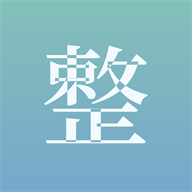
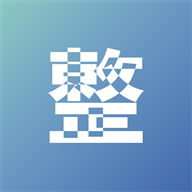
３１

diff --git a/summary.html b/summary.html
@@ -8,10 +8,10 @@
   <meta name="apple-mobile-web-app-title" content="整">
   <meta name="apple-mobile-web-app-status-bar-style" content="default">
   <title>Mindful Life Log - 年総決算</title>
-  <link rel="manifest" href="manifest.webmanifest?v=20260320-2">
-  <link rel="apple-touch-icon" href="icons/apple-touch-icon.png?v=20260320-2">
-  <link rel="icon" href="icons/icon-192.png?v=20260320-2" type="image/png">
-  <link rel="stylesheet" href="styles.css?v=20260320-2">
+  <link rel="manifest" href="manifest.webmanifest?v=20260320-3">
+  <link rel="apple-touch-icon" href="icons/apple-touch-icon.png?v=20260320-3">
+  <link rel="icon" href="icons/icon-192.png?v=20260320-3" type="image/png">
+  <link rel="stylesheet" href="styles.css?v=20260320-3">
 </head>
 <body>
   <div class="app-shell summary-shell">
@@ -65,8 +65,8 @@
     </div>
   </div>
 
-  <script src="common.js?v=20260320-2"></script>
-  <script src="summary.js?v=20260320-2"></script>
+  <script src="common.js?v=20260320-3"></script>
+  <script src="summary.js?v=20260320-3"></script>
 </body>
 </html>
 

diff --git a/index.html b/index.html
@@ -8,10 +8,10 @@
   <meta name="apple-mobile-web-app-title" content="整">
   <meta name="apple-mobile-web-app-status-bar-style" content="default">
   <title>Mindful Life Log</title>
-  <link rel="manifest" href="manifest.webmanifest?v=20260320-2">
-  <link rel="apple-touch-icon" href="icons/apple-touch-icon.png?v=20260320-2">
-  <link rel="icon" href="icons/icon-192.png?v=20260320-2" type="image/png">
-  <link rel="stylesheet" href="styles.css?v=20260320-2">
+  <link rel="manifest" href="manifest.webmanifest?v=20260320-3">
+  <link rel="apple-touch-icon" href="icons/apple-touch-icon.png?v=20260320-3">
+  <link rel="icon" href="icons/icon-192.png?v=20260320-3" type="image/png">
+  <link rel="stylesheet" href="styles.css?v=20260320-3">
 </head>
 <body>
   <div class="app-shell">
@@ -94,8 +94,8 @@
     </div>
   </div>
 
-  <script src="common.js?v=20260320-2"></script>
-  <script src="app.js?v=20260320-2"></script>
+  <script src="common.js?v=20260320-3"></script>
+  <script src="app.js?v=20260320-3"></script>
 </body>
 </html>
 

diff --git a/sw.js b/sw.js
@@ -1,19 +1,19 @@
 const CACHE_PREFIX = 'mindful-life-log-cache';
-const CACHE_VERSION = '20260320-v11';
+const CACHE_VERSION = '20260320-v12';
 const CACHE_NAME = `${CACHE_PREFIX}-${CACHE_VERSION}`;
 
 const APP_SHELL = [
   './',
   './index.html',
   './summary.html',
-  './styles.css?v=20260320-2',
-  './common.js?v=20260320-2',
-  './app.js?v=20260320-2',
-  './summary.js?v=20260320-2',
-  './manifest.webmanifest?v=20260320-2',
-  './icons/icon-192.png?v=20260320-2',
-  './icons/icon-512.png?v=20260320-2',
-  './icons/apple-touch-icon.png?v=20260320-2'
+  './styles.css?v=20260320-3',
+  './common.js?v=20260320-3',
+  './app.js?v=20260320-3',
+  './summary.js?v=20260320-3',
+  './manifest.webmanifest?v=20260320-3',
+  './icons/icon-192.png?v=20260320-3',
+  './icons/icon-512.png?v=20260320-3',
+  './icons/apple-touch-icon.png?v=20260320-3'
 ];
 
 self.addEventListener('install', (event) => {

diff --git a/summary.js b/summary.js
@@ -9,7 +9,7 @@
   var UPDATE_CONFIRM_MESSAGE = 'キャッシュを削除して最新版を読み込みます。入力データは消えません。実行しますか？';
   var MIN_YEAR = 2026;
   var MAX_YEAR = 2035;
-  var ASSET_VERSION = '20260320-2';
+  var ASSET_VERSION = '20260320-3';
 
   var summaryHeader = document.getElementById('summaryHeader');
   var summaryTitle = document.getElementById('summaryTitle');

diff --git a/app.js b/app.js
@@ -9,7 +9,7 @@
   var UPDATE_CONFIRM_MESSAGE = 'キャッシュを削除して最新版を読み込みます。入力データは消えません。実行しますか？';
   var MIN_YEAR = 2026;
   var MAX_YEAR = 2035;
-  var ASSET_VERSION = '20260320-2';
+  var ASSET_VERSION = '20260320-3';
 
   var TABLE_COLUMNS = [
     { key: 'date', label: '日付' },
